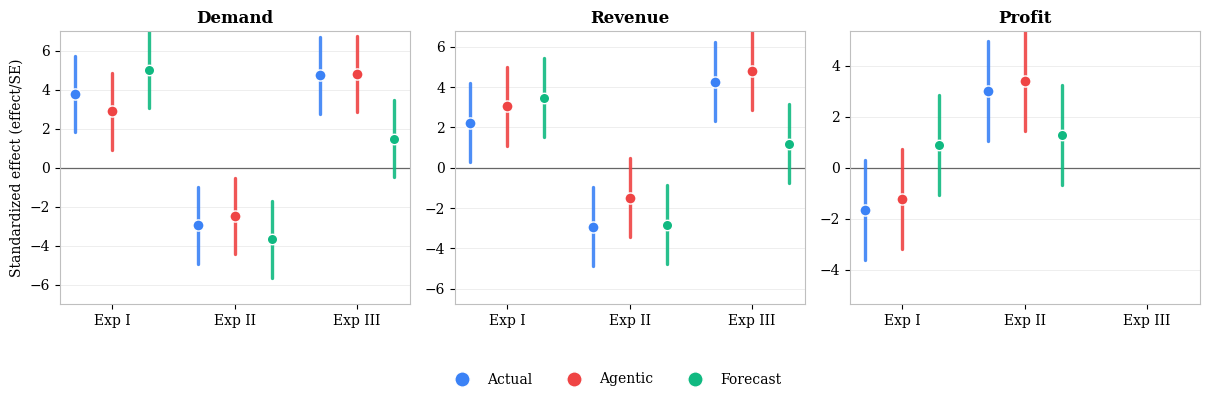
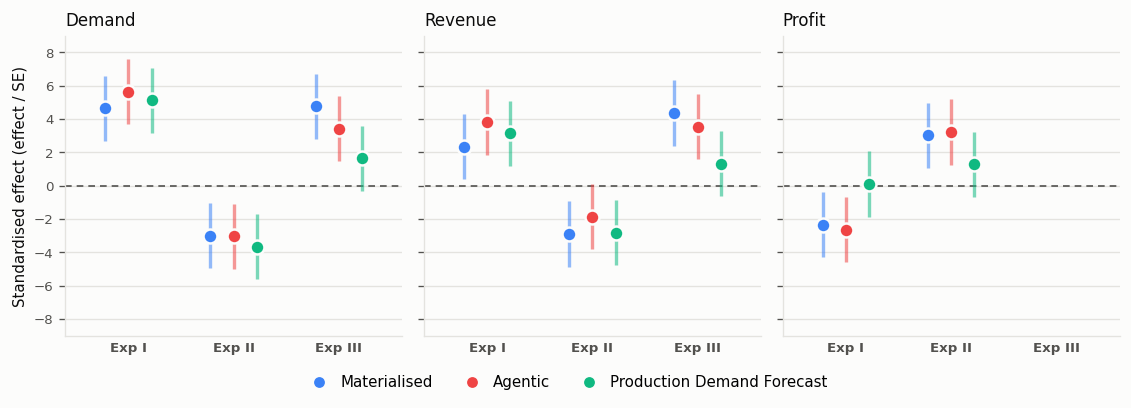
Update agentic project: abstract, caption and figure

diff --git a/index.html b/index.html
@@ -297,10 +297,10 @@
           </span>
         </button>
         <div class="panel"><div class="panel-inner"><div class="panel-pad">
-          <div class="abs"><p>We study whether personified large language model (LLM) agents can serve as synthetic customers for pricing experiments in e-commerce. Using an agent-construction pipeline and an evaluation framework spanning purchase prediction, elasticity elicitation, and simulated A/B tests, we benchmark agentic responses against observed purchase outcomes, demand elasticities recovered from transaction data, and the materialised treatment effects of pricing experiments at Zalando.</p><p>Three findings stand out. First, agent construction matters: the system prompt and persona move agent behaviour markedly closer to observed purchase decisions than the base model alone. Second, personified agents are poor predictors of individual purchase decisions, overstating realised purchase rates and falling short of supervised classifiers. They do, however, recover aggregate price elasticities, reproducing the order of magnitude and cross-group ordering of observed estimates. Third, in three simulated pricing experiments, agentic outcomes match the direction and significance of the materialised treatment effects on demand, revenue, and profit.</p><p>We read this as evidence that current LLMs carry the systematic structure of consumer behaviour and price response, but not the idiosyncratic variation of single decisions. The findings support agentic pricing experimentation as a directional screening layer that complements live experimentation.</p></div>
+          <div class="abs"><p>We study whether personified large language model (LLM) agents can serve as synthetic customers for pricing experiments in e-commerce. Using an agent-construction pipeline and an evaluation suite spanning purchase prediction, elasticity elicitation, and simulated A/B tests, we benchmark agentic responses against observed purchase outcomes, demand elasticities recovered from transaction data, and the materialised treatment effects of pricing experiments at Zalando.</p><p>Three findings stand out. First, agent construction matters: the system prompt and persona move agent behaviour markedly closer to observed purchase decisions and price responses than the base model alone. Second, personified agents are poor predictors of individual purchase decisions, substantially overstating realised purchase rates and falling short of supervised classifiers. They do, however, broadly reproduce the order of magnitude and cross-group ordering of observed price elasticities. Third, in three simulated pricing experiments, agentic outcomes match the direction of the materialised treatment effects on demand, revenue, and profit, and their significance in all but one case.</p><p>We read this as evidence that current LLMs carry the systematic structure of consumer behaviour and price response, but not the idiosyncratic variation of single decisions. Across all three experiments, the agentic results would have led to the same product decisions as the live tests, supporting agentic pricing experimentation as a directional screening layer that complements live experimentation.</p></div>
           <figure class="fig">
             <img src="figs/agentic.png" alt="Standardised treatment effects for demand, revenue and profit">
-            <figcaption>Figure: Standardised treatment effects on demand, revenue and profit across three pricing experiments, comparing actual and agentic outcomes, with the gradient-boosted production demand forecast as a benchmark. Profit is unavailable for Experiment III, which ran on partner assortment.</figcaption>
+            <figcaption>Figure: Standardised treatment effects on demand, revenue and profit across three pricing experiments, comparing materialised and agentic outcomes, with the production demand forecast as a benchmark. Profit is unavailable for Experiment III, which ran on new assortment.</figcaption>
           </figure>
         </div></div></div>
       </div>
